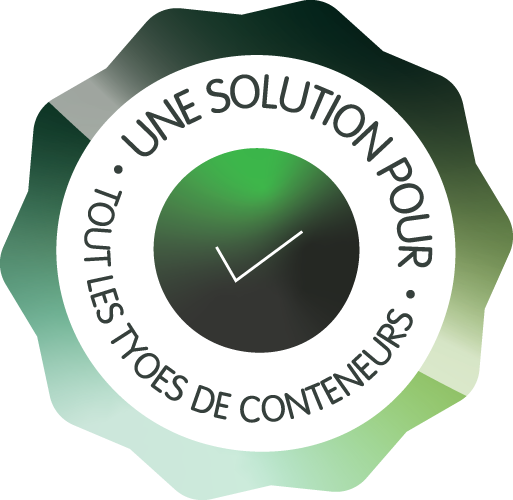
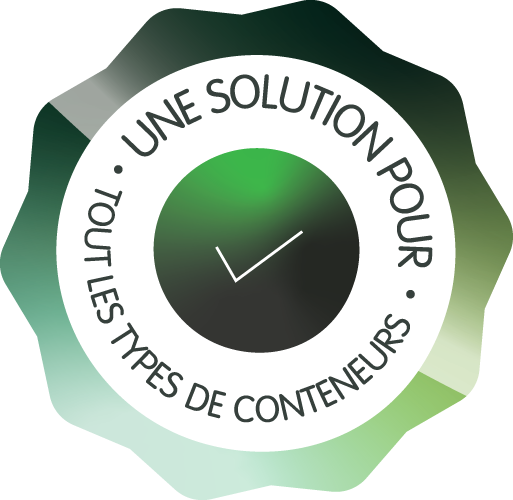
feat: implement home page with hardware section and interactive assets

diff --git a/src/pages/Home.css b/src/pages/Home.css
@@ -647,6 +647,13 @@
   font-weight: bold;
 }
 
+.home__rise-above-container .home__rise-above-button-container {
+  display: flex;
+  justify-content: flex-end;
+  width: 100%;
+  margin-top: var(--spacing-lg);
+}
+
 /* Section Styles */
 .home__section {
   padding: calc(var(--spacing-xl) * 1.5) 0;
@@ -800,6 +807,10 @@
   margin: 0;
   display: flex;
   align-items: center;
+}
+
+.home__section--t4g-mobile-button {
+  display: none;
 }
 
 .home__section-grid {
@@ -2468,6 +2479,15 @@
 }
 
 @media (max-width: 768px) {
+  .home__rise-above-container .home__rise-above-button-container {
+    display: flex !important;
+    justify-content: center !important;
+    align-self: stretch !important;
+    width: 100% !important;
+    margin-left: auto !important;
+    margin-right: auto !important;
+  }
+
   .home__rise-above-content .home__button-container {
     display: flex !important;
     justify-content: center !important;
@@ -2486,6 +2506,15 @@
 }
 
 @media (max-width: 480px) {
+  .home__rise-above-container .home__rise-above-button-container {
+    display: flex !important;
+    justify-content: center !important;
+    align-self: stretch !important;
+    width: 100% !important;
+    margin-left: auto !important;
+    margin-right: auto !important;
+  }
+
   .home__rise-above-content .home__button-container {
     display: flex !important;
     justify-content: center !important;
@@ -2500,6 +2529,94 @@
     align-self: center !important;
     margin-left: 0 !important;
     margin-right: 0 !important;
+  }
+}
+
+@media (max-width: 1024px) {
+  .home__section--t4g {
+    display: flex;
+    flex-direction: column;
+    min-height: auto !important;
+    overflow: visible;
+  }
+
+  .home__section--t4g .home__section-parallax-bg {
+    position: relative;
+    order: 2;
+    width: 100% !important;
+    height: clamp(320px, 78vw, 480px);
+    min-height: 0;
+    background-size: cover;
+    background-position: center;
+    z-index: 0;
+  }
+
+  .home__section--t4g .home__section-parallax-overlay {
+    display: none;
+  }
+
+  .home__section--t4g .container {
+    order: 1;
+    padding: var(--spacing-xl) var(--spacing-md) var(--spacing-lg) !important;
+    background-color: transparent;
+    z-index: 1;
+  }
+
+  .home__section--t4g .home__section-content {
+    width: 100% !important;
+    min-height: auto !important;
+    margin: 0 !important;
+    padding: 0 !important;
+    gap: var(--spacing-md);
+  }
+
+  .home__section--t4g .home__section-heading,
+  .home__section--t4g h2 {
+    color: var(--color-primary-dark) !important;
+    font-size: var(--font-size-2xl) !important;
+    line-height: 1.2;
+  }
+
+  .home__section--t4g .home__section-text {
+    color: var(--color-text-secondary) !important;
+    font-size: var(--font-size-base) !important;
+    line-height: var(--line-height-relaxed);
+    font-weight: 400;
+  }
+
+  .home__section--t4g .home__button-container {
+    justify-content: center !important;
+    align-self: center !important;
+  }
+
+  .home__section--t4g .home__section--t4g-desktop-button {
+    display: none !important;
+  }
+
+  .home__section--t4g .home__section--t4g-mobile-button {
+    order: 3;
+    display: flex !important;
+    justify-content: center !important;
+    align-self: center !important;
+    width: 100% !important;
+    margin: var(--spacing-lg) auto 0 !important;
+    padding: 0 var(--spacing-md) var(--spacing-xl);
+    z-index: 1;
+  }
+}
+
+@media (max-width: 480px) {
+  .home__section--t4g .home__section-parallax-bg {
+    height: clamp(280px, 88vw, 420px);
+  }
+
+  .home__section--t4g .home__section-heading,
+  .home__section--t4g h2 {
+    font-size: var(--font-size-xl) !important;
+  }
+
+  .home__section--t4g .home__section-text {
+    font-size: var(--font-size-sm) !important;
   }
 }
 

diff --git a/src/pages/Home.tsx b/src/pages/Home.tsx
@@ -424,6 +424,14 @@ export const Home: React.FC = () => {
 
       {/* Rise Above Section */}
       <section className="home__rise-above-container">
+        <div className="home__rise-above-content">
+          <AnimateOnScroll animation="fadeSlideUp" delay={0} duration={0.8}>
+            <h2 className="home__rise-above-title">{t.riseAbove.title}</h2>
+          </AnimateOnScroll>
+          <AnimateOnScroll animation="fadeSlideUp" delay={200} duration={0.8}>
+            <p className="home__rise-above-text" dangerouslySetInnerHTML={{ __html: t.riseAbove.text }} />
+          </AnimateOnScroll>
+        </div>
         <div className="home__rise-above-video-wrapper">
           <div ref={topEdgeRef} style={{ position: 'absolute', top: 0, left: 0, width: '100%', height: '1px', pointerEvents: 'none' }} />
           <video
@@ -437,20 +445,12 @@ export const Home: React.FC = () => {
             <source src={videoplatVideo} type="video/mp4" />
           </video>
         </div>
-        <div className="home__rise-above-content">
-          <AnimateOnScroll animation="fadeSlideUp" delay={0} duration={0.8}>
-            <h2 className="home__rise-above-title">{t.riseAbove.title}</h2>
-          </AnimateOnScroll>
-          <AnimateOnScroll animation="fadeSlideUp" delay={200} duration={0.8}>
-            <p className="home__rise-above-text" dangerouslySetInnerHTML={{ __html: t.riseAbove.text }} />
-          </AnimateOnScroll>
-          <AnimateOnScroll animation="fadeSlideUp" delay={400} duration={0.8} className="home__button-container">
-            <Button href="/platform" variant="primary" size="sm">
-              {t.riseAbove.button}
-              <ArrowIcon />
-            </Button>
-          </AnimateOnScroll>
-        </div>
+        <AnimateOnScroll animation="fadeSlideUp" delay={400} duration={0.8} className="home__button-container home__rise-above-button-container">
+          <Button href="/platform" variant="primary" size="sm">
+            {t.riseAbove.button}
+            <ArrowIcon />
+          </Button>
+        </AnimateOnScroll>
       </section>
 
       {/* T4G App Section */}
@@ -467,7 +467,7 @@ export const Home: React.FC = () => {
                 {t.t4g.description}
               </p>
             </AnimateOnScroll>
-            <AnimateOnScroll animation="fadeSlideUp" delay={500} duration={0.8} className="home__button-container">
+            <AnimateOnScroll animation="fadeSlideUp" delay={500} duration={0.8} className="home__button-container home__section--t4g-desktop-button">
               <Button href="/trash4goods" variant="primary" size="sm">
                 {t.t4g.button}
                 <ArrowIcon />
@@ -475,6 +475,12 @@ export const Home: React.FC = () => {
             </AnimateOnScroll>
           </div>
         </div>
+        <AnimateOnScroll animation="fadeSlideUp" delay={300} duration={0.8} className="home__button-container home__section--t4g-mobile-button">
+          <Button href="/trash4goods" variant="primary" size="sm">
+            {t.t4g.button}
+            <ArrowIcon />
+          </Button>
+        </AnimateOnScroll>
       </section>
 
       {/* Paylt Info Section */}